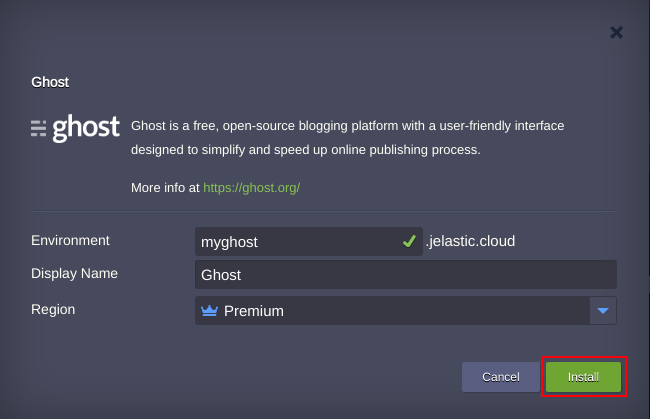
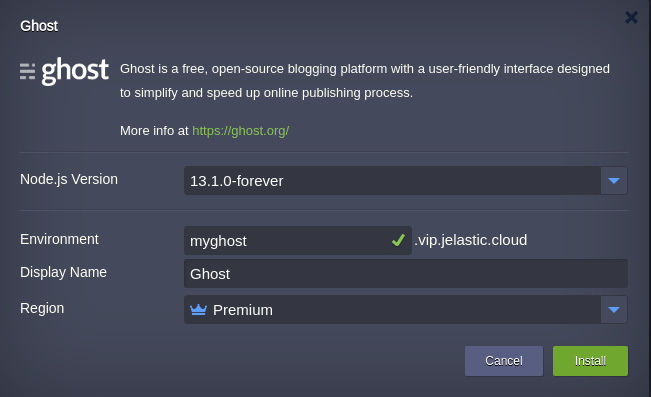
Readme updated

diff --git a/README.md b/README.md
@@ -27,7 +27,7 @@ If you are already registered at Jelastic, you can deploy *Ghost* by importing t
 <img src="images/import.png" width="500">
 </p>
 
-In the installation wizard, if required, change settings such as *Environment Name* or *Region*. Then press __Install__ .
+In the installation wizard, if required, change settings such as *Node.js Version*, *Environment Name* or *Region*. Then press __Install__ .
 
 <p align="left">
 <img src="images/install.png" width="500">
@@ -39,6 +39,6 @@ Now you can just click on the **Open in Browser** button within the shown frame 
 <img src="images/success.png" width="370">
 </p>
 
-See more details in our [post](https://jelastic.com/blog/ghost-blogging-platform-automatic-installation-on-jelastic-paas/) how to create an owner account for your upcoming blogs.
+See more details in our [post](https://jelastic.com/blog/ghost-blogging-platform-automatic-installation/) how to create an owner account for your upcoming blogs.
 
 Congratulations! You are ready to create your awesome blogs collaborating with your teammates.
